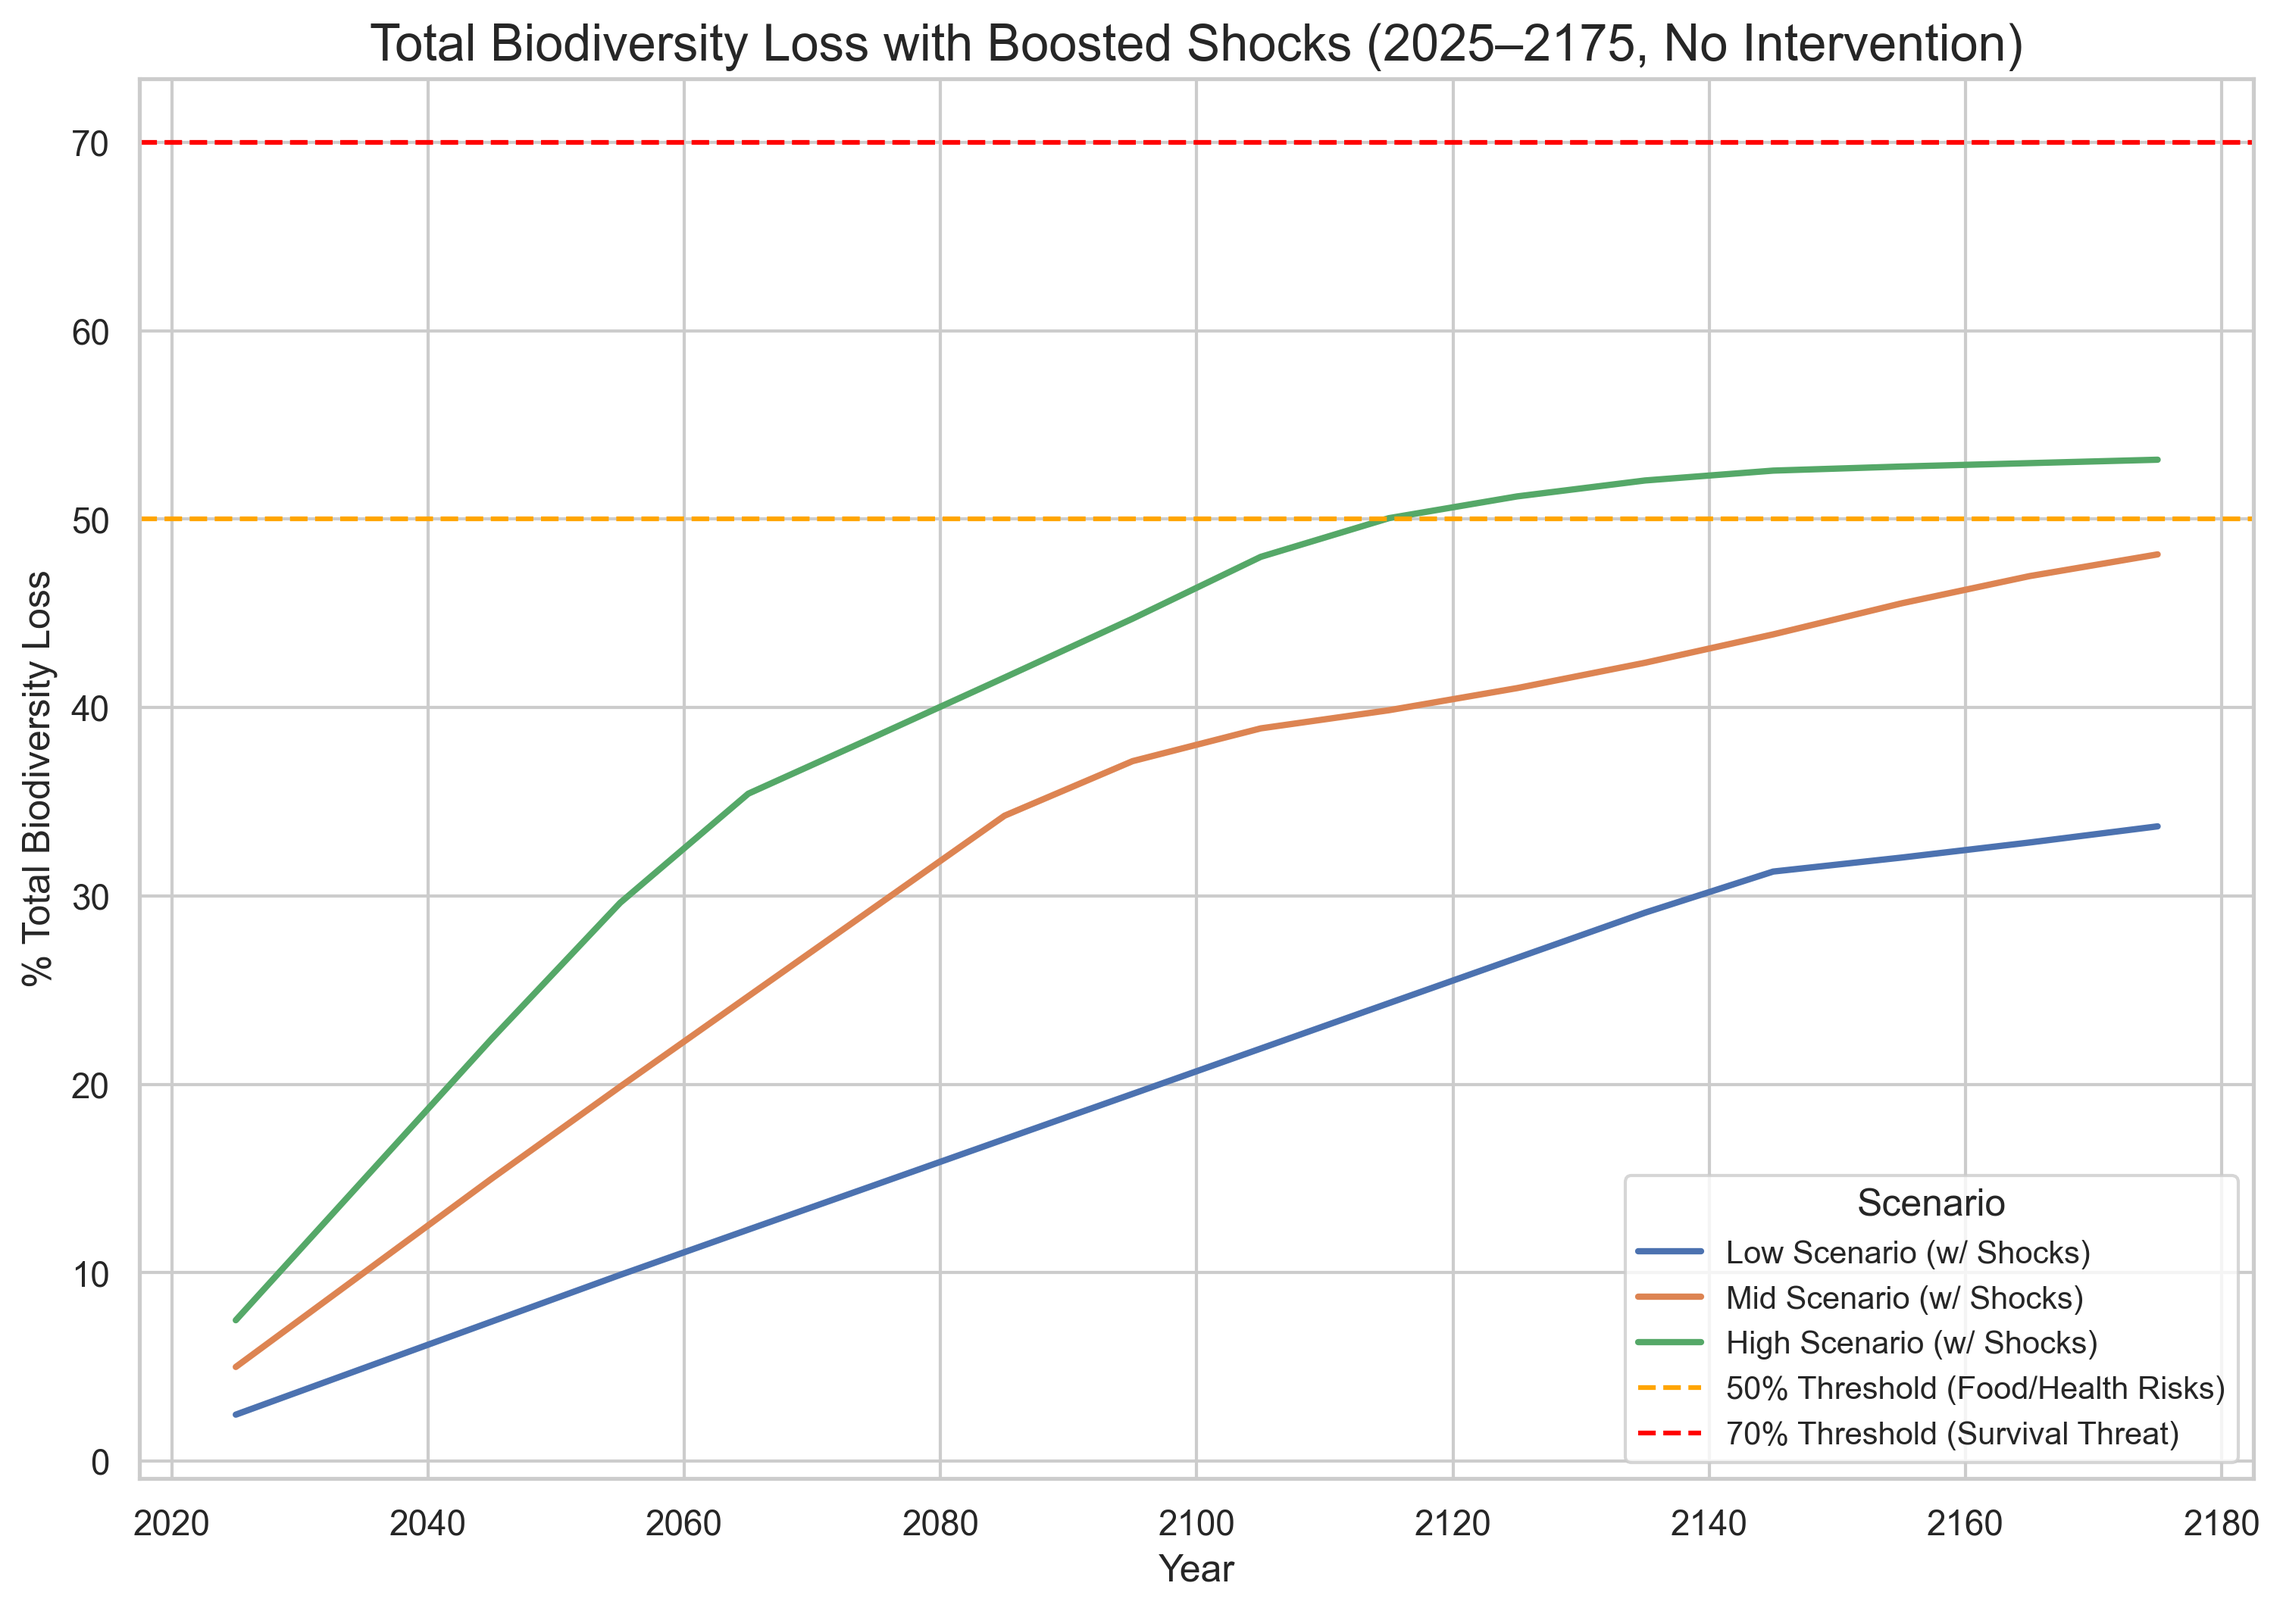
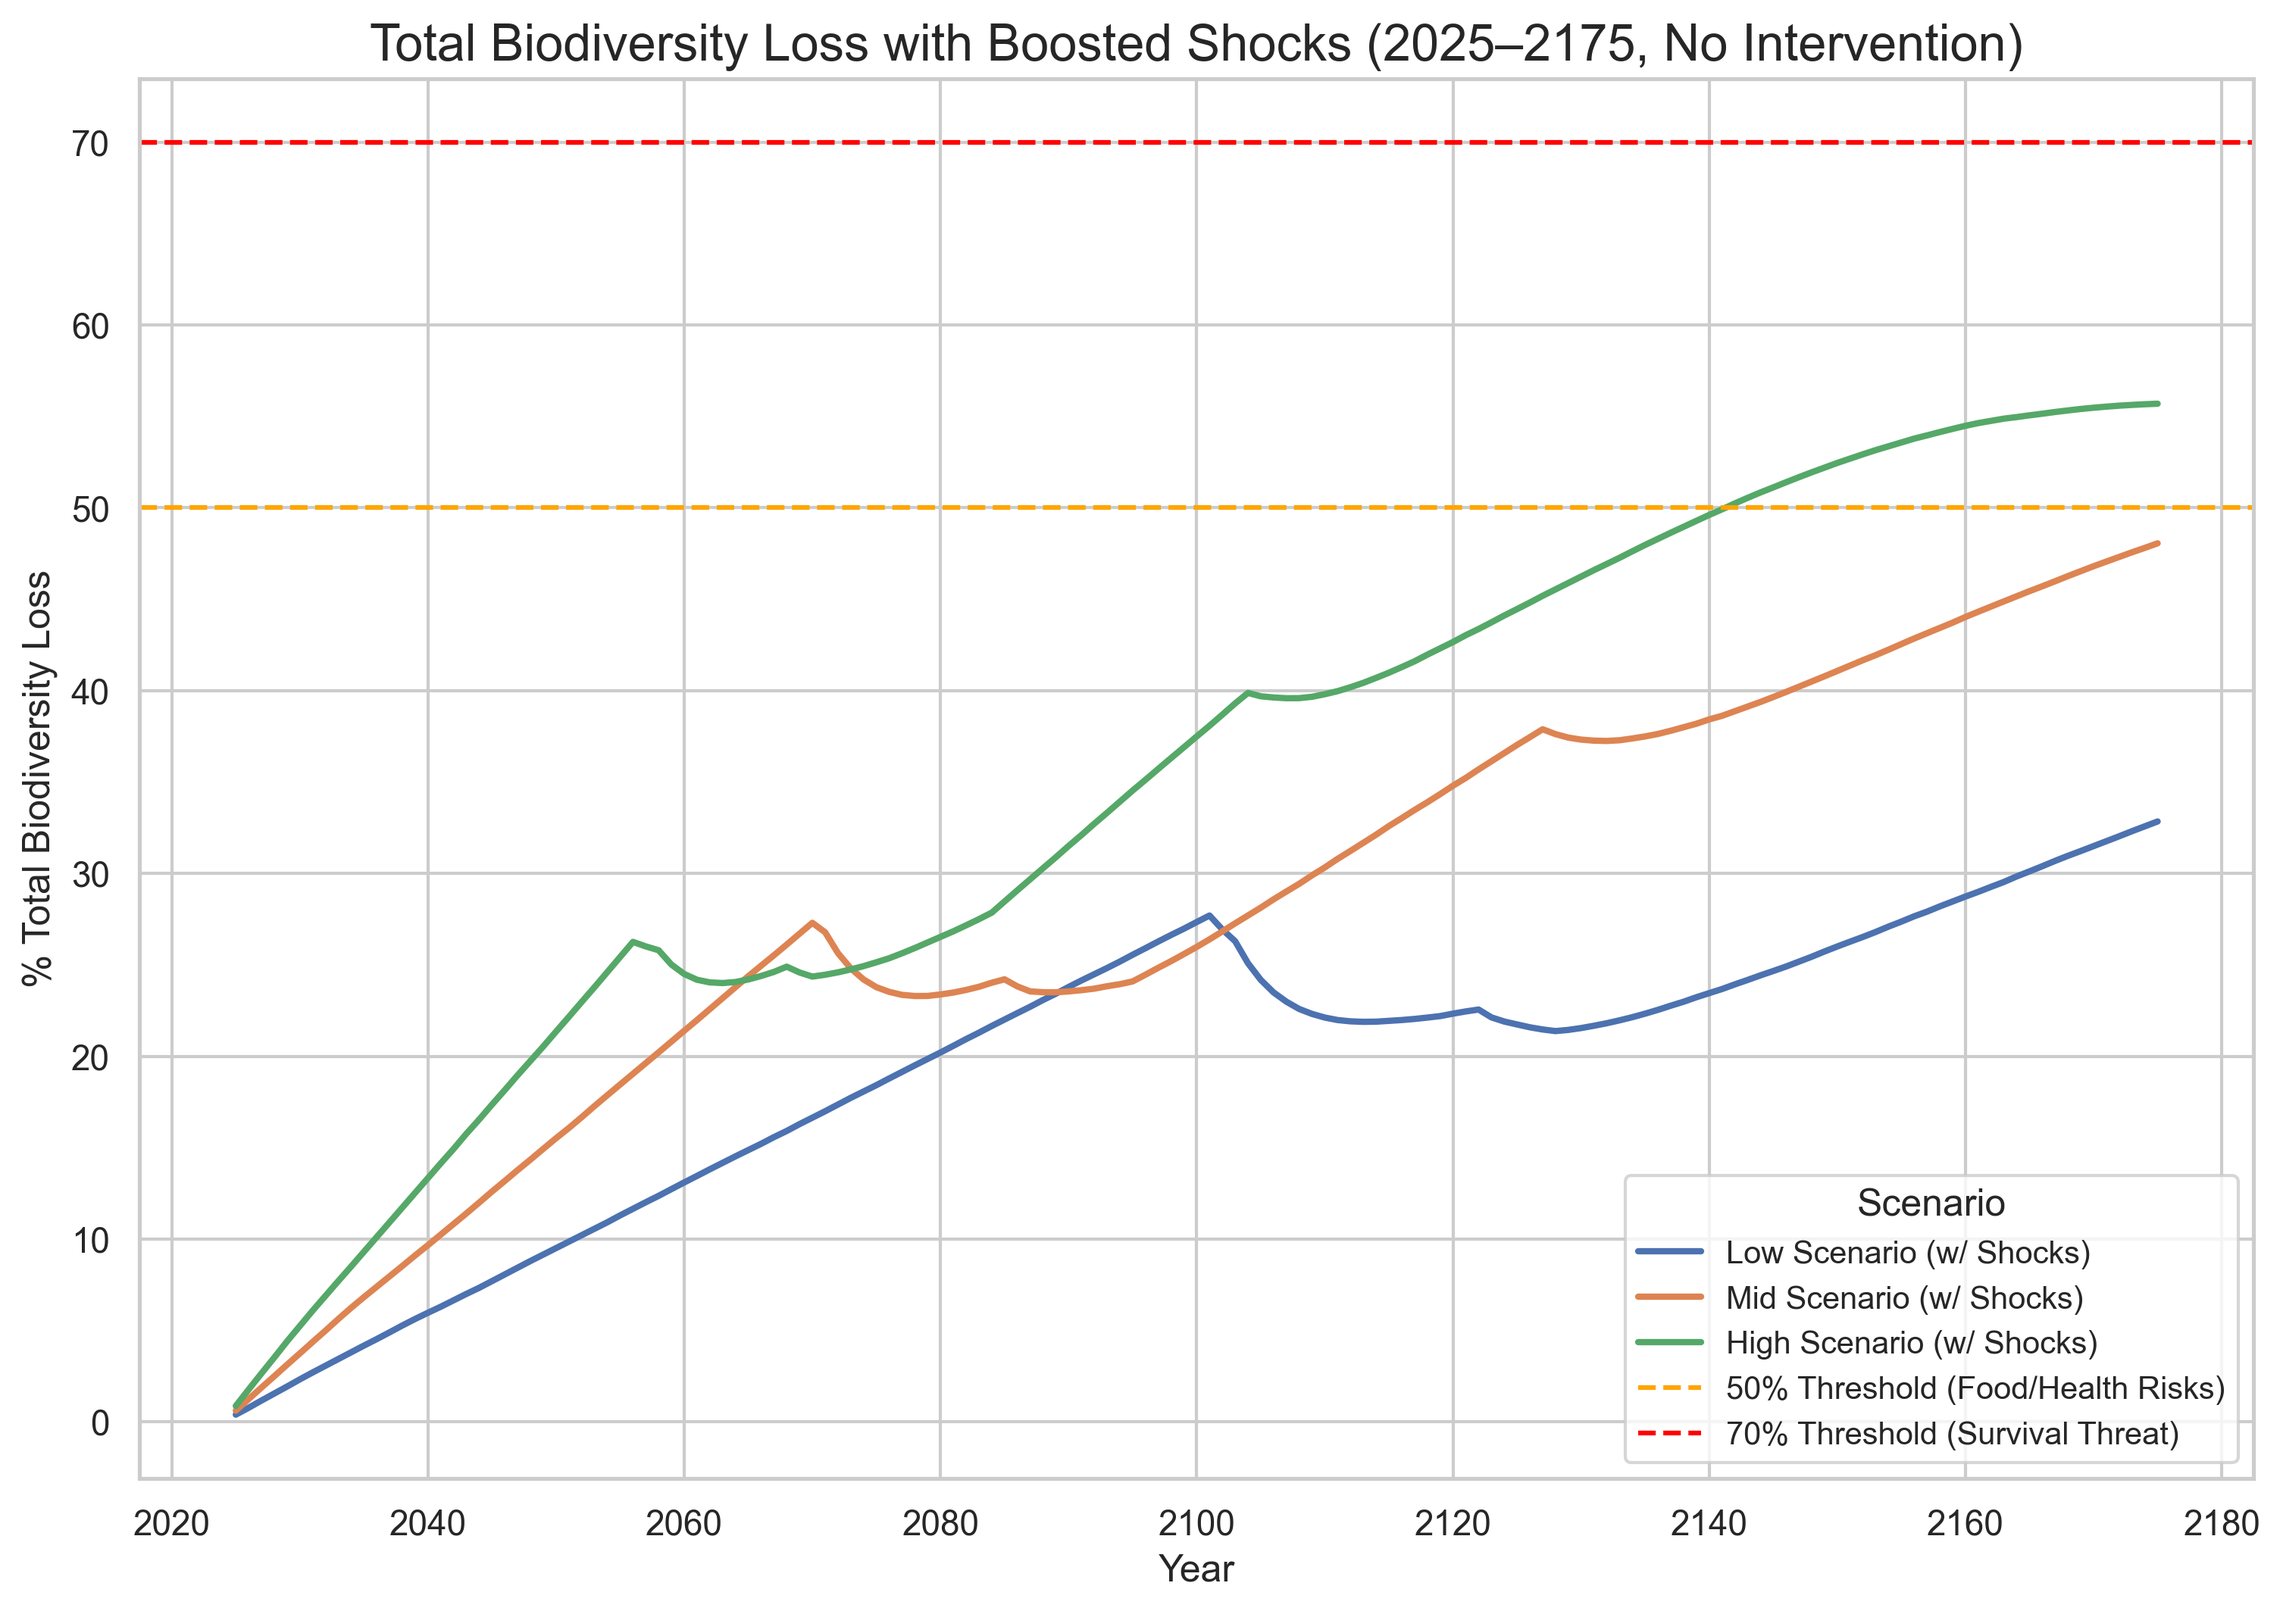
update

diff --git a/simulations/ecosystem_cascade.py b/simulations/ecosystem_cascade.py
@@ -10,28 +10,28 @@ DATA_DIR = os.path.join(BASE_DIR, 'data')
 FIGURES_DIR = os.path.join(BASE_DIR, 'figures')
 
 np.random.seed(42)
-n_iter = 100000
-years = np.arange(2025, 2176, 10)
+n_iter = 10000
+years = np.arange(2025, 2176, 1)
 ecosystems = ['Amazon Rainforest', 'Coral Reefs', 'Arctic Sea Ice', 'Boreal Forests',
               'Savanna Grasslands', 'Wetlands', 'Oceans', 'Temperate Forests',
               'Deserts', 'Tundra', 'Montane', 'Freshwater', 'Polar']
 
 base_loss_means = {
-    'Amazon Rainforest': {'Low': 0.03, 'Mid': 0.06, 'High': 0.09},
-    'Coral Reefs': {'Low': 0.04, 'Mid': 0.08, 'High': 0.12},
-    'Arctic Sea Ice': {'Low': 0.03, 'Mid': 0.06, 'High': 0.09},
-    'Boreal Forests': {'Low': 0.02, 'Mid': 0.04, 'High': 0.06},
-    'Savanna Grasslands': {'Low': 0.02, 'Mid': 0.04, 'High': 0.06},
-    'Wetlands': {'Low': 0.02, 'Mid': 0.05, 'High': 0.07},
-    'Oceans': {'Low': 0.03, 'Mid': 0.06, 'High': 0.09},
-    'Temperate Forests': {'Low': 0.01, 'Mid': 0.03, 'High': 0.05},
-    'Deserts': {'Low': 0.01, 'Mid': 0.03, 'High': 0.05},
-    'Tundra': {'Low': 0.02, 'Mid': 0.04, 'High': 0.07},
-    'Montane': {'Low': 0.02, 'Mid': 0.04, 'High': 0.06},
-    'Freshwater': {'Low': 0.03, 'Mid': 0.06, 'High': 0.09},
-    'Polar': {'Low': 0.01, 'Mid': 0.03, 'High': 0.05}
+    'Amazon Rainforest': {'Low': 0.003, 'Mid': 0.006, 'High': 0.009},
+    'Coral Reefs': {'Low': 0.004, 'Mid': 0.008, 'High': 0.012},
+    'Arctic Sea Ice': {'Low': 0.003, 'Mid': 0.006, 'High': 0.009},
+    'Boreal Forests': {'Low': 0.002, 'Mid': 0.004, 'High': 0.006},
+    'Savanna Grasslands': {'Low': 0.002, 'Mid': 0.004, 'High': 0.006},
+    'Wetlands': {'Low': 0.002, 'Mid': 0.005, 'High': 0.007},
+    'Oceans': {'Low': 0.003, 'Mid': 0.006, 'High': 0.009},
+    'Temperate Forests': {'Low': 0.001, 'Mid': 0.003, 'High': 0.005},
+    'Deserts': {'Low': 0.001, 'Mid': 0.003, 'High': 0.005},
+    'Tundra': {'Low': 0.002, 'Mid': 0.004, 'High': 0.007},
+    'Montane': {'Low': 0.002, 'Mid': 0.004, 'High': 0.006},
+    'Freshwater': {'Low': 0.003, 'Mid': 0.006, 'High': 0.009},
+    'Polar': {'Low': 0.001, 'Mid': 0.003, 'High': 0.005}
 }
-base_loss_std = 0.01
+base_loss_std = 0.001
 
 cascade_effects = {
     'Amazon Rainforest': {'Arctic Sea Ice': 1.2, 'Coral Reefs': 1.1, 'Wetlands': 1.1},
@@ -50,9 +50,9 @@ cascade_effects = {
 }
 
 # Boosted shock parameters
-shock_annual_prob = 0.10  # 10% chance per decade
-shock_magnitude = {'positive': -0.10, 'negative': 0.10}  # ±10% loss rate adjustment
-shock_targets = ['Oceans', 'Coral Reefs', 'Wetlands']  # Multi-ecosystem hit
+shock_annual_prob = 0.03  # 4-5 shocks per run
+shock_magnitude = {'positive': -0.1, 'negative': 0.1}  # ±10% loss rate adjustment
+shock_targets = ecosystems  # Shocks hit all
 
 transform_threshold = stats.beta(a=2, b=5).rvs()  # 0-1 scale
 transform_targets = {
@@ -64,9 +64,9 @@ transform_targets = {
     'Montane': 'Savanna Grasslands', 'Freshwater': 'Wetlands', 'Polar': 'Oceans'
 }
 final_baselines = {
-    'Amazon Rainforest': 0.10, 'Coral Reefs': 0.05, 'Arctic Sea Ice': 0.20,
+    'Amazon Rainforest': 0.10, 'Coral Reefs': 0.01, 'Arctic Sea Ice': 0.20,
     'Boreal Forests': 0.20, 'Savanna Grasslands': 0.40, 'Wetlands': 0.15,
-    'Oceans': 0.25, 'Temperate Forests': 0.30, 'Deserts': 0.50,
+    'Oceans': 0.15, 'Temperate Forests': 0.30, 'Deserts': 0.50,
     'Tundra': 0.30, 'Montane': 0.40, 'Freshwater': 0.20, 'Polar': 0.40
 }
 
@@ -98,7 +98,7 @@ def run_ecosystem_simulation(scenario, include_shocks=False):
                 shock_adjust = np.where(shock_events[:, t], 
                                       np.where(shock_types[:, t] == 'positive', shock_magnitude['positive'], shock_magnitude['negative']), 
                                       0)
-            adjusted_mean_loss = np.clip(mean_loss + shock_adjust, 0, 0.20)  # Raised cap for bigger shocks
+            adjusted_mean_loss = np.clip(mean_loss + shock_adjust, 0, 0.15)  # Raised cap for bigger shocks
             
             annual_loss = stats.t(df=3, loc=adjusted_mean_loss, scale=base_loss_std).rvs(n_iter)
             loss_dict[eco][:, t] = loss_dict[eco][:, t-1] + annual_loss if t > 0 else annual_loss
@@ -146,7 +146,7 @@ for scenario in ['Low', 'Mid', 'High']:
     total_mean_2175 = np.mean(total_loss_no_shock[scenario][:, -1]) * 100
     total_ci_2175 = np.percentile(total_loss_no_shock[scenario][:, -1], [2.5, 97.5]) * 100
     print(f"Total Loss 2175: {total_mean_2175:.1f}%, 95% CI = {total_ci_2175[0]:.1f}–{total_ci_2175[1]:.1f}%")
-    mean_2125 = np.mean(total_loss_no_shock[scenario][:, -6]) * 100
+    mean_2125 = np.mean(total_loss_no_shock[scenario][:, 100]) * 100
     if mean_2125 > 50:
         print(f"WARNING: {mean_2125:.1f}% loss by 2125 exceeds 50% - food/health risks.")
     if total_mean_2175 > 70:
@@ -156,7 +156,7 @@ for scenario in ['Low', 'Mid', 'High']:
     total_mean_2175 = np.mean(total_loss_with_shock[scenario][:, -1]) * 100
     total_ci_2175 = np.percentile(total_loss_with_shock[scenario][:, -1], [2.5, 97.5]) * 100
     print(f"Total Loss 2175: {total_mean_2175:.1f}%, 95% CI = {total_ci_2175[0]:.1f}–{total_ci_2175[1]:.1f}%")
-    mean_2125 = np.mean(total_loss_with_shock[scenario][:, -6]) * 100
+    mean_2125 = np.mean(total_loss_with_shock[scenario][:, 100]) * 100
     if mean_2125 > 50:
         print(f"WARNING: {mean_2125:.1f}% loss by 2125 exceeds 50% - food/health risks.")
     if total_mean_2175 > 70:
